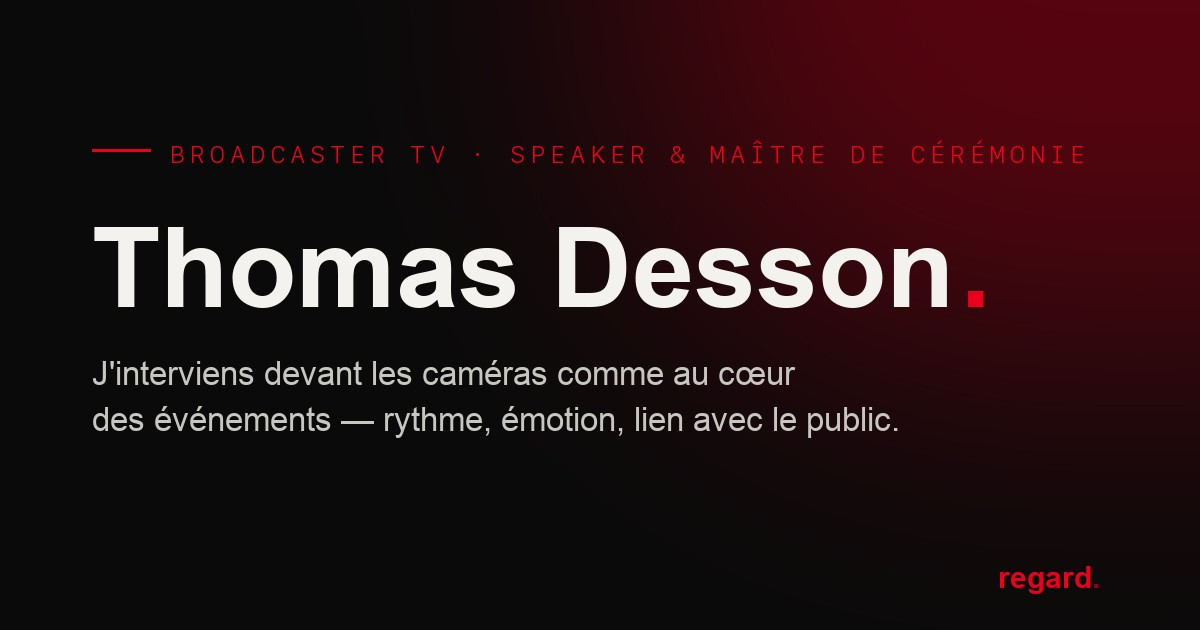
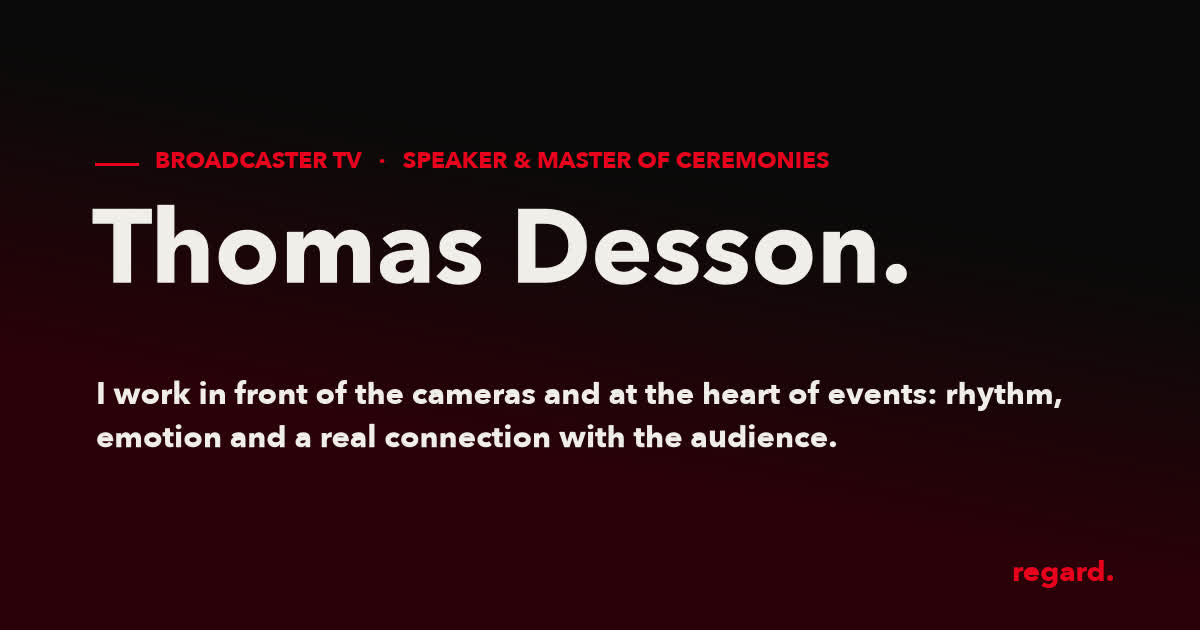
Premium polish : image de partage en EN (international) + duo Judo empilé sur mobile (lisibilité)

diff --git a/index.html b/index.html
@@ -261,6 +261,7 @@ body.menu-open .mobile-menu{transform:none}
 .reel__media--duo .reel__duo{margin:0;position:relative;border-radius:8px;overflow:hidden;border:1px solid var(--line);background:#000;line-height:0}
 .reel__media--duo video{width:100%;height:auto;aspect-ratio:16/9;display:block;background:#000;cursor:pointer}
 .reel__media--duo figcaption{position:absolute;top:8px;left:8px;font-family:var(--mono);font-size:.55rem;letter-spacing:.14em;text-transform:uppercase;color:#fff;background:rgba(0,0,0,.6);padding:3px 7px;border-radius:4px;line-height:1;z-index:2}
+@media(max-width:560px){ .reel__media--duo{grid-template-columns:1fr} }
 .reel__ctx .k{font-family:var(--mono);font-size:.6rem;letter-spacing:.24em;text-transform:uppercase;color:var(--rouge);display:block;margin-bottom:12px}
 .reel__ctx h3{font-family:var(--serif);font-weight:800;letter-spacing:-.02em;font-size:clamp(1.12rem,1.9vw,1.45rem);line-height:1.16;margin-bottom:10px}
 .reel__ctx p{font-size:.9rem;font-weight:300;color:var(--muted);line-height:1.65;margin-bottom:16px}
